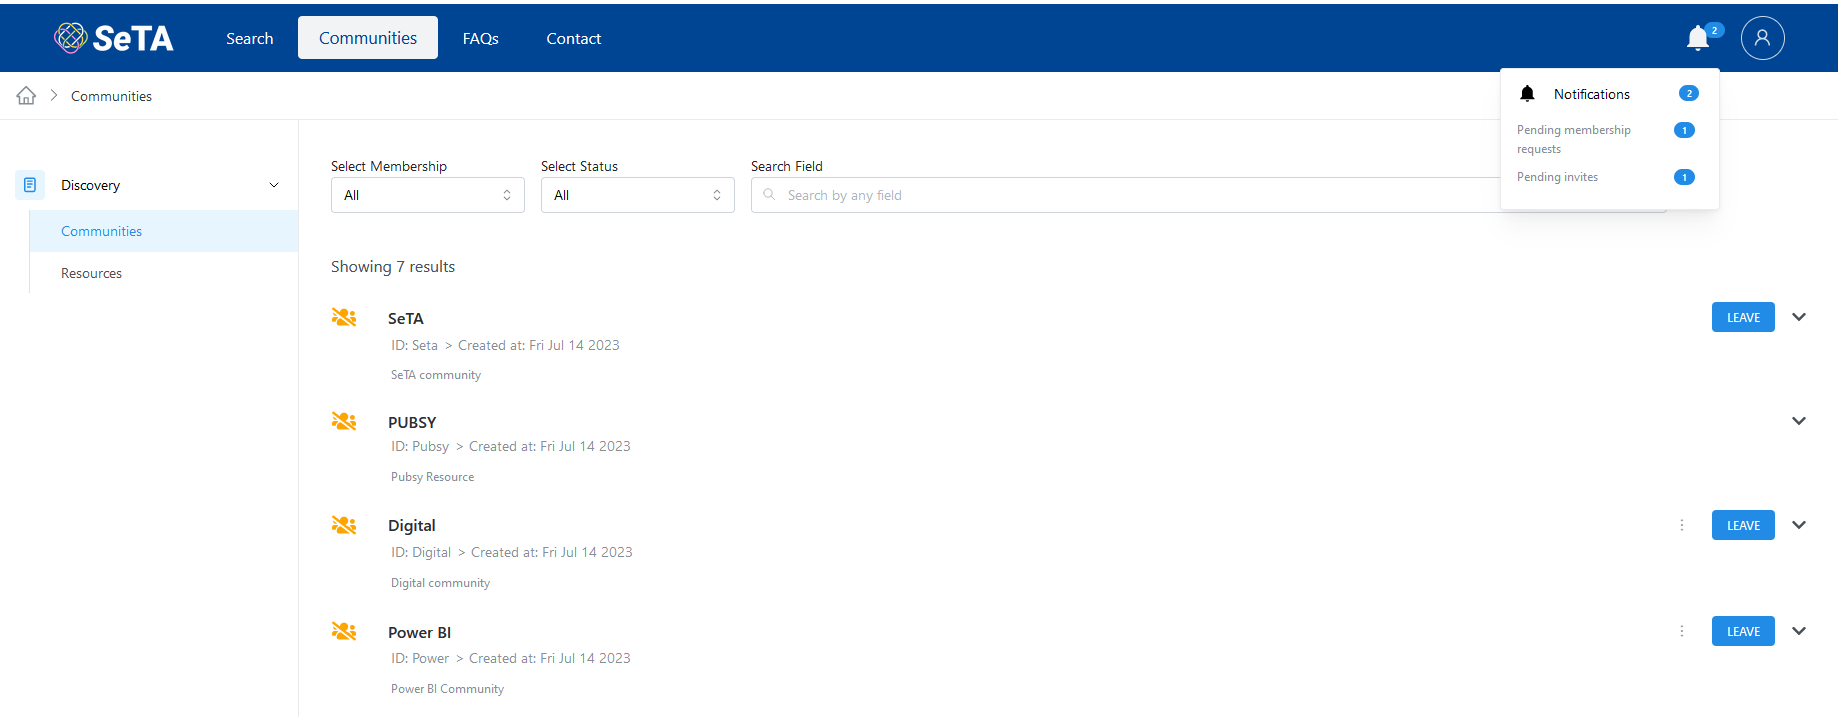
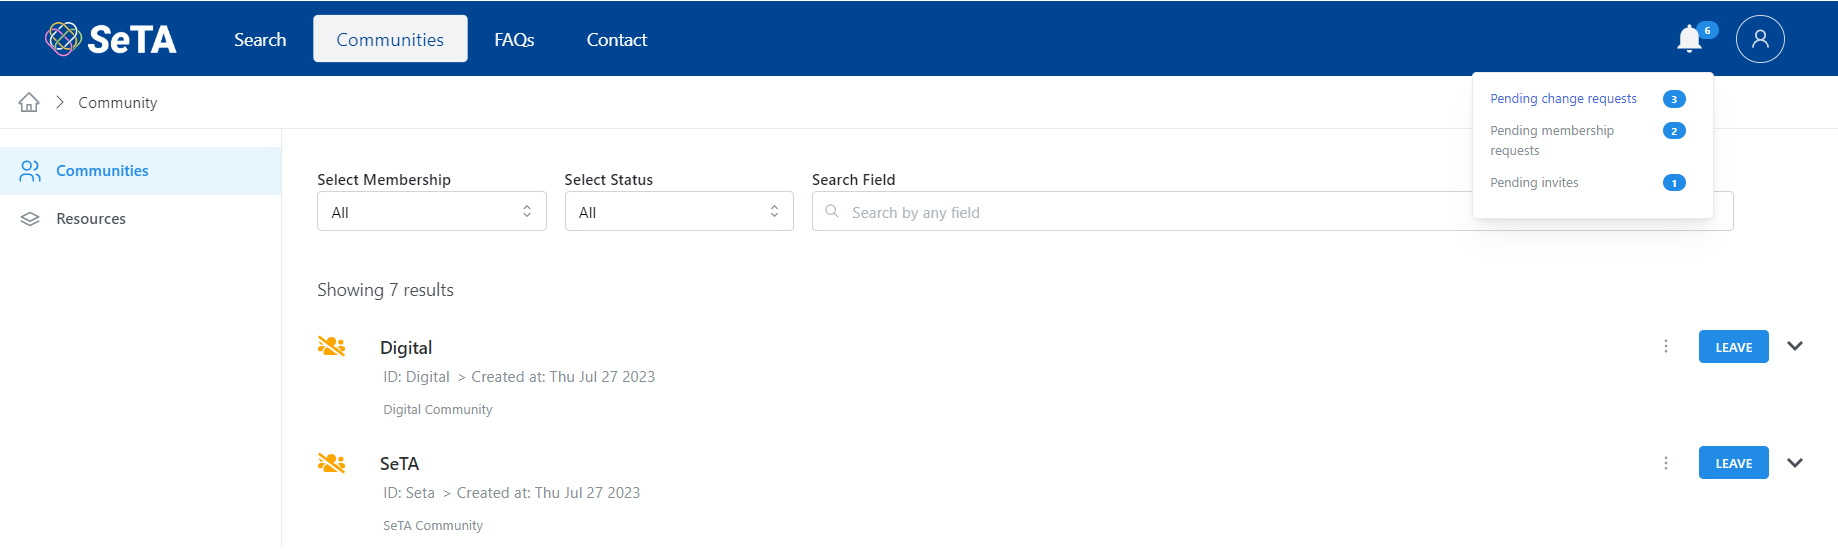
update of docs images

diff --git a/seta-doc/docs/user-guide/communities/communities.md b/seta-doc/docs/user-guide/communities/communities.md
@@ -91,11 +91,17 @@ You can filter by the different types display on top of the page: *Select Member
 
 1. You can either use the filters to search the Community or select from the Communities list.      
 2. Click  :material-dots-vertical: at the right side of the Community row selected and scroll to right the option  ^^Switch to Opened Request^^.          
-3. The label of the option will change to ^^Switch to Opened Pending^^.      
+3. The label of the option will change to ^^Switch to Opened Pending^^.        
+4. In the notifications it will appear on ^^Pending change requests^^ a number and by clicking it will open a page to change the request.
 
 <figure markdown>
   ![Image title](../../img/request_switch_opened.png)
   <figcaption>Switch to Open a Community</figcaption>
+</figure>
+
+<figure markdown>
+  ![Image title](../../img/pending_invites.png)
+  <figcaption>Switch to Open a Community on Notifications</figcaption>
 </figure>
 
 ## Delete a Community
